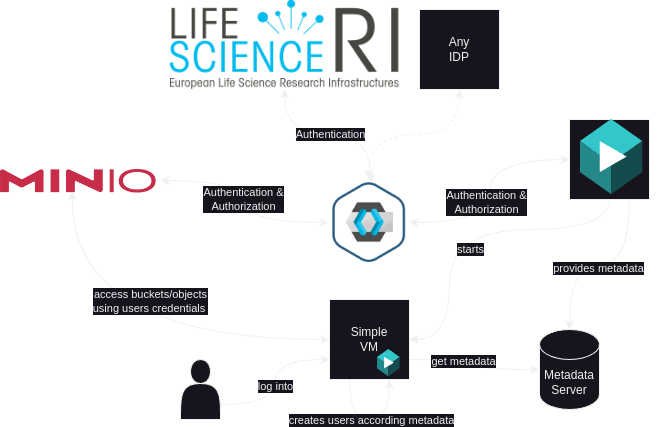
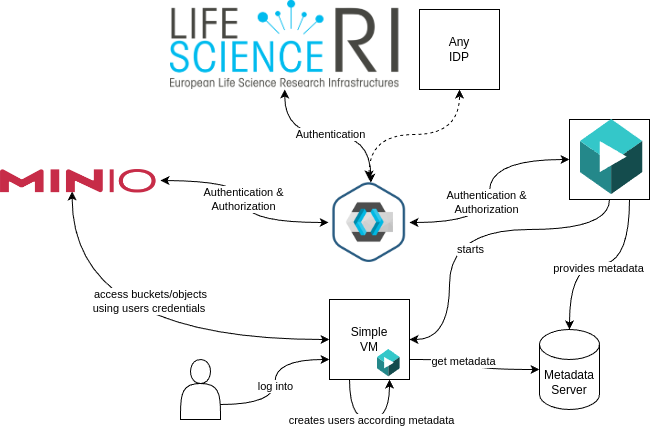
update README

diff --git a/task1/simplevm/README.md b/task1/simplevm/README.md
@@ -1,1 +1,5 @@
-tbw
+## Simple Vm in Trusted Research Environments
+
+[SimpleVM](https://cloud.denbi.de/about/project-types/simplevm/) is a platform built on top on [OpenStack](https://openstack.org) to simplify the provision of virtual instances to users. Currently, SimpleVM uses images based on Ubuntu with the user 'ubuntu'. As part of this proof of concept, users will be created by the owner of the VM with the help of a metadata server. In a second step, the respective user's buckets will be mounted on the VM (via MinIO client or rclone)
+
+![Overview](overview.png)
